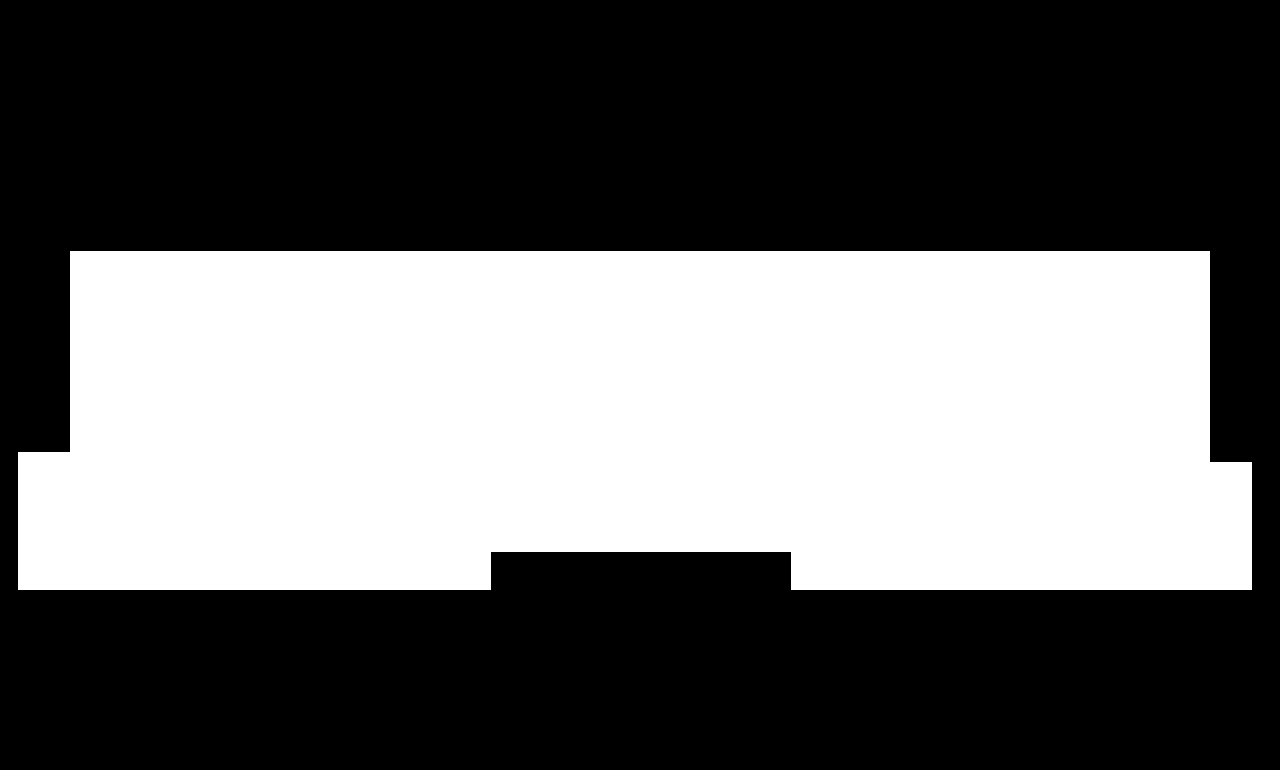
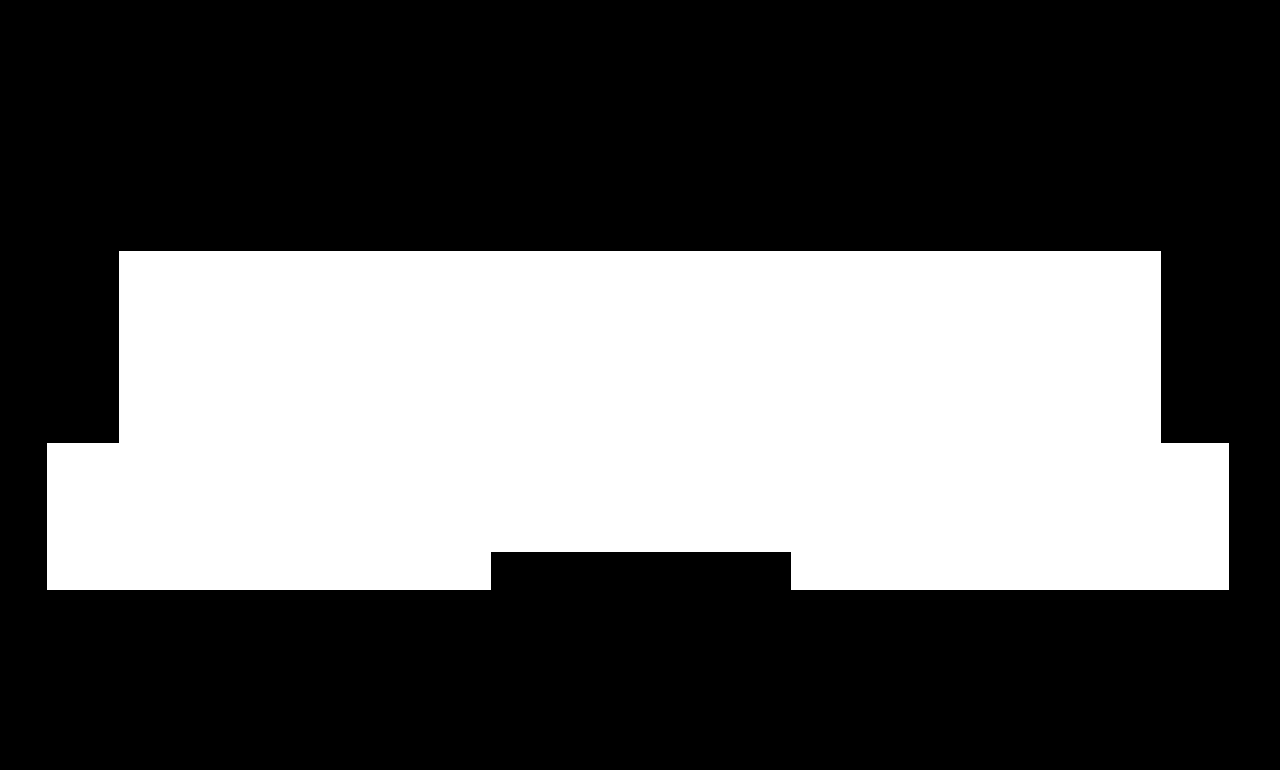
fiddled more

Changed region(s): [[0.9062, 0.3117, 1.0, 0.7792], [0.0, 0.3117, 0.0938, 0.7792]]

diff --git a/PyramidPlunder/PyramidPlunder/PyramidPlunder/Classes/Door.cs b/PyramidPlunder/PyramidPlunder/PyramidPlunder/Classes/Door.cs
@@ -180,12 +180,12 @@ namespace Pyramid_Plunder.Classes
                 {
                     int XLocation;
                     if (orientation == DoorOrientations.FacingLeft)
-                        XLocation = (int)(position.X + (animationDimensions[currentAnimation].X * 0.3));
+                        XLocation = (int)(position.X + (animationDimensions[currentAnimation].X * 0.5));
                     else
                         XLocation = (int)position.X;
 
                     return new Rectangle(XLocation, (int)position.Y,
-                        (int)(animationDimensions[currentAnimation].X * 0.7),
+                        (int)(animationDimensions[currentAnimation].X * 0.5),
                         (int)animationDimensions[currentAnimation].Y);
                 }
             }
